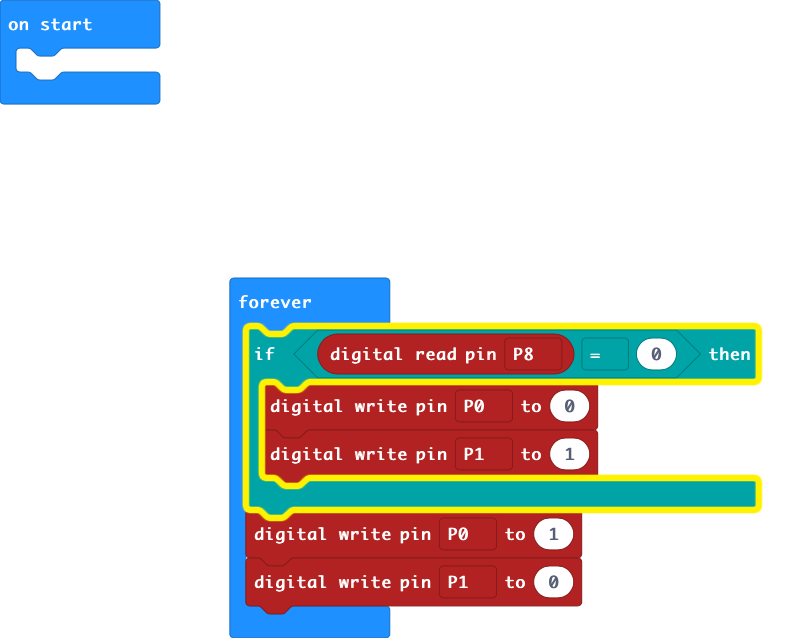
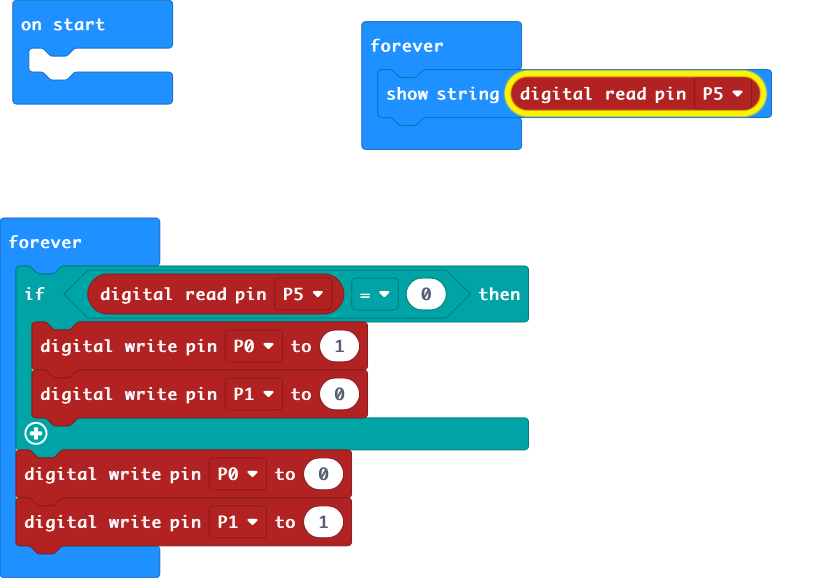
Update main.blocks, main.ts

diff --git a/main.ts b/main.ts
@@ -1,8 +1,11 @@
 basic.forever(function () {
-    if (pins.digitalReadPin(DigitalPin.P8) == 0) {
-        pins.digitalWritePin(DigitalPin.P0, 0)
-        pins.digitalWritePin(DigitalPin.P1, 1)
+    basic.showString("" + (pins.digitalReadPin(DigitalPin.P5)))
+})
+basic.forever(function () {
+    if (pins.digitalReadPin(DigitalPin.P5) == 0) {
+        pins.digitalWritePin(DigitalPin.P0, 1)
+        pins.digitalWritePin(DigitalPin.P1, 0)
     }
-    pins.digitalWritePin(DigitalPin.P0, 1)
-    pins.digitalWritePin(DigitalPin.P1, 0)
+    pins.digitalWritePin(DigitalPin.P0, 0)
+    pins.digitalWritePin(DigitalPin.P1, 1)
 })
